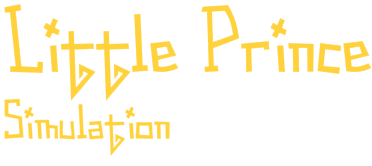
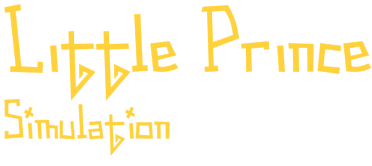
set up titlePage

Changed region(s): [[0.7097, 0.0904, 0.7688, 0.241], [0.1183, 0.1205, 0.1774, 0.241]]

diff --git a/TitleScreen.java b/TitleScreen.java
@@ -12,23 +12,32 @@ public class TitleScreen extends World
     private int index = 0;
     private final int COUNT_NUM = 9;
     private int count = 0;
+    private GreenfootImage titleText = new GreenfootImage("titleText.png");
+    private GreenfootImage titleStar = new GreenfootImage("textStar.png");
+    private Image star1;
+    private Image star2;
     /**
      * Constructor for objects of class TitleScreen.
      * 
      */
     public TitleScreen()
     {
-        // Create a new world with 600x400 cells with a cell size of 1x1 pixels.
         super(1024, 576, 1); 
-        //setBackround(new GreenfootImage("titleScreen.png");
         for (int i = 0; i < 17; i++){
             imgs[i] = new GreenfootImage("introAnimation/ani"+i+".png");
             imgs[i].scale(1024, 576);
         }
+        addObject(new Image(titleText, (int)(titleText.getWidth() * 1.3), (int)(titleText.getHeight() * 1.3)), 300, 200);
+        star1 = new Image(titleStar);
+        star2 = new Image(titleStar);
+        addObject(star1, 125, 130);
+        addObject(star2, 420, 130);
     }
     
     public void act(){
         animate();
+        star1.turn(2);
+        star2.turn(2);
     }
     
     public void animate(){

diff --git a/Image.java b/Image.java
@@ -1,0 +1,30 @@
+import greenfoot.*;  // (World, Actor, GreenfootImage, Greenfoot and MouseInfo)
+
+/**
+ * Write a description of class Image here.
+ * 
+ * @author (your name) 
+ * @version (a version number or a date)
+ */
+public class Image extends Actor
+{
+    private GreenfootImage img;
+    private int width;
+    private int height;
+    public void act()
+    {
+        // Add your action code here.
+        setImage(img);
+    }
+    
+    public Image(GreenfootImage img, int width, int height){
+        this.img = img;
+        this.width = width;
+        this.height = height;
+        img.scale(width, height);
+    }
+    
+    public Image(GreenfootImage img){
+        this.img = img;
+    }
+}
